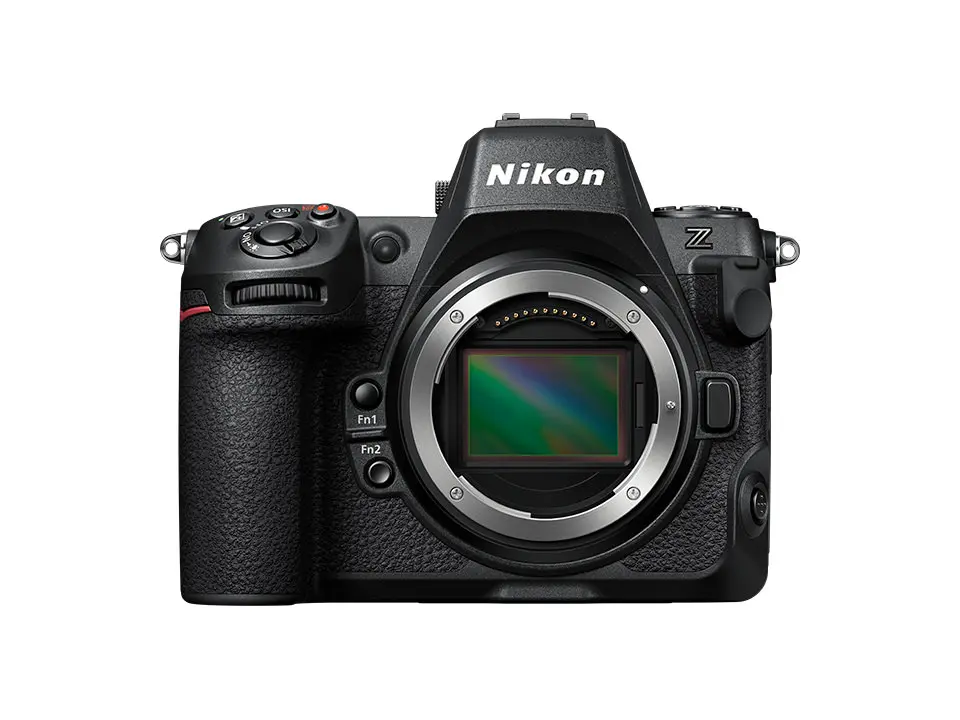
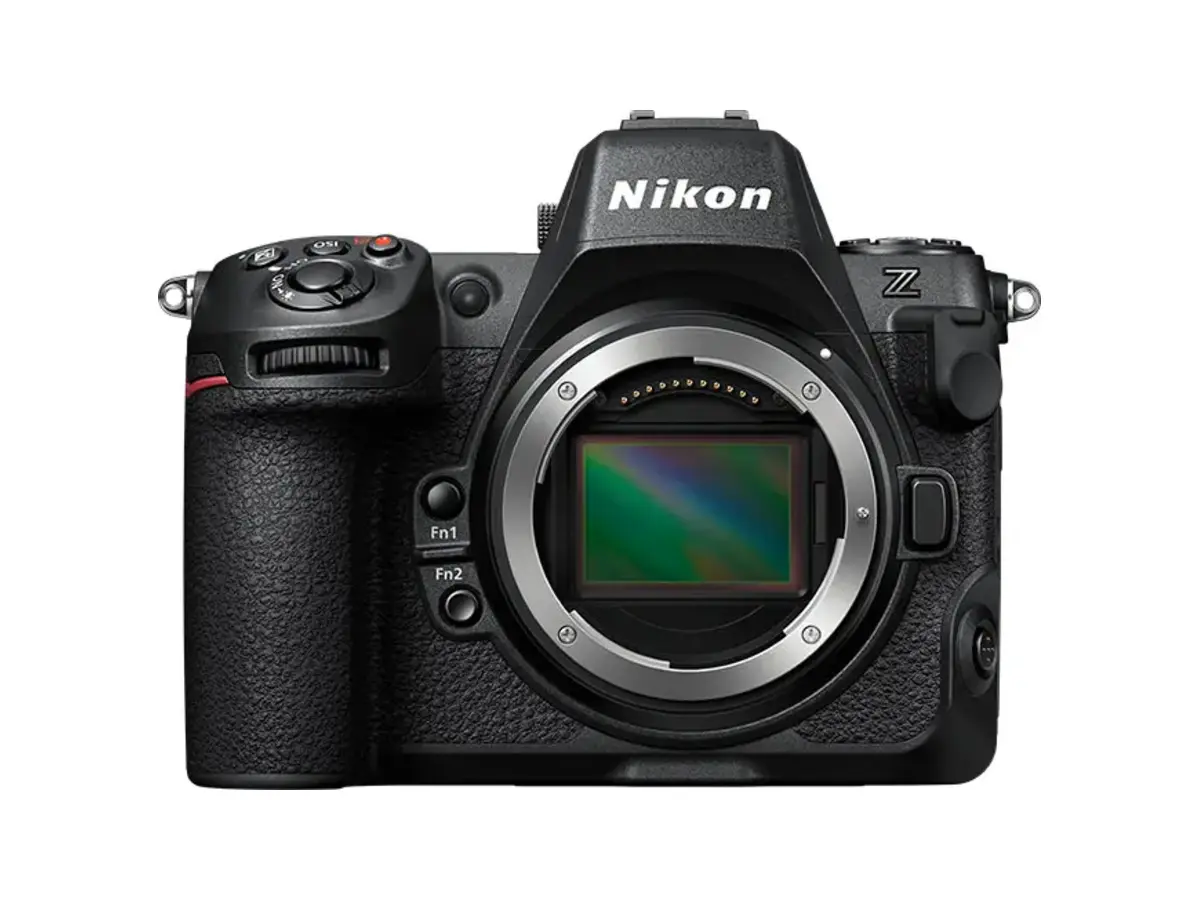
Normalize camera image scale and simplify monitor specs

Changed region(s): [[0.125, 0.1222, 0.875, 0.8861]]

diff --git a/data.js b/data.js
@@ -31,27 +31,27 @@ window.CAMERAS = [
 ];
 
 const CAMERA_DETAILS = {
-  'sony-a1-ii': {ibisLabel:'中央 8.5段 / 周辺 7.0段',price:'990,000円',display:'3.2" 4軸マルチアングル（バリチル）・タッチ・約209万ドット',image:'assets/sony-a1-ii.webp'},
-  'sony-a9-iii': {ibisLabel:'8.0段',price:'935,000円',display:'3.2" 4軸マルチアングル（バリチル）・タッチ・約209万ドット',image:'assets/sony-a9-iii.webp'},
-  'sony-a7r-vi': {ibisLabel:'中央 8.5段 / 周辺 7.0段',price:'740,300円',display:'3.2" 4軸マルチアングル（バリチル）・タッチ・約209万ドット',image:'assets/sony-a7r-vi.webp'},
-  'sony-a7-v': {ibisLabel:'中央 7.5段 / 周辺 6.5段',price:'416,900円〜',display:'3.2" 4軸マルチアングル（バリチル）・タッチ・約209万ドット',image:'assets/sony-a7-v.webp'},
-  'sony-a7-iv': {ibisLabel:'5.5段',price:'361,900円〜',display:'3.0" バリアングル・タッチ・約104万ドット',image:'assets/sony-a7-iv.webp'},
-  'sony-a7cr': {ibisLabel:'7.0段',price:'449,900円〜',display:'3.0" バリアングル・タッチ・約104万ドット',image:'assets/sony-a7cr.webp'},
-  'sony-a7c-ii': {ibisLabel:'7.0段',price:'306,900円〜',display:'3.0" バリアングル・タッチ・約104万ドット',image:'assets/sony-a7c-ii.webp'},
-  'sony-a6700': {ibisLabel:'5.0段',price:'229,900円〜',display:'3.0" バリアングル・タッチ・約104万ドット',image:'assets/sony-a6700.webp'},
-  'sony-fx2': {ibisLabel:'中央 5.5段 / 周辺 5.0段',price:'416,900円',display:'3.0" バリアングル・タッチ・約104万ドット',image:'assets/sony-fx2.webp'},
-  'sony-fx5': {ibisLabel:'5軸（段数非公表）',price:'812,900円',display:'3.5" 4軸マルチアングル（バリチル）・タッチ・約276万ドット',image:'assets/sony-fx5.webp'},
-  'sony-fx3': {ibisLabel:'5.5段',price:'581,900円',display:'3.0" バリアングル・タッチ・約236万ドット',image:'assets/sony-fx3.webp'},
-  'sony-fx30': {ibisLabel:'5軸 5.5段',price:'297,000円〜',display:'3.0" バリアングル・タッチ・約236万ドット',image:'assets/sony-fx30.webp'},
-  'nikon-z9': {ibisLabel:'最大 6.0段',price:'オープン価格',display:'3.2" 縦横4軸チルト・タッチ・約210万ドット',image:'assets/nikon-z9.webp'},
-  'nikon-z8': {ibisLabel:'最大 6.0段',price:'オープン価格',display:'3.2" 縦横4軸チルト・タッチ・約210万ドット',image:'assets/nikon-z8.webp'},
-  'nikon-z6-iii': {ibisLabel:'8.0段',price:'オープン価格',display:'3.2" バリアングル・タッチ・約210万ドット',image:'assets/nikon-z6-iii.webp'},
-  'nikon-z5-ii': {ibisLabel:'中央 7.5段 / 周辺 6.0段',price:'オープン価格',display:'3.2" バリアングル・タッチ・約210万ドット',image:'assets/nikon-z5-ii.webp'},
-  'nikon-zr': {ibisLabel:'中央 7.5段 / 周辺 6.0段',price:'オープン価格',display:'4.0" バリアングル・タッチ・約307万ドット',image:'assets/nikon-zr.webp'},
-  'fuji-gfx100s-ii': {ibisLabel:'8.0段',price:'オープン価格',display:'3.2" 3方向チルト・タッチ・約236万ドット',image:'assets/fuji-gfx100s-ii.webp'},
-  'sigma-bf': {ibisLabel:'なし（動画EISのみ）',price:'385,000円',display:'3.15" 固定式・タッチ・約210万ドット',image:'assets/sigma-bf-silver.webp'},
-  'sigma-fpl': {ibisLabel:'なし（動画電子式のみ）',price:'生産完了（オープン価格）',display:'3.15" 固定式・タッチ・約210万ドット',image:'assets/sigma-fpl.webp'},
-  'sigma-fp': {ibisLabel:'なし（動画電子式のみ）',price:'生産完了（オープン価格）',display:'3.15" 固定式・タッチ・約210万ドット',image:'assets/sigma-fp.webp'}
+  'sony-a1-ii': {ibisLabel:'中央 8.5段 / 周辺 7.0段',price:'990,000円',display:'3.2" 4軸マルチアングル（バリチル）',image:'assets/sony-a1-ii.webp'},
+  'sony-a9-iii': {ibisLabel:'8.0段',price:'935,000円',display:'3.2" 4軸マルチアングル（バリチル）',image:'assets/sony-a9-iii.webp'},
+  'sony-a7r-vi': {ibisLabel:'中央 8.5段 / 周辺 7.0段',price:'740,300円',display:'3.2" 4軸マルチアングル（バリチル）',image:'assets/sony-a7r-vi.webp'},
+  'sony-a7-v': {ibisLabel:'中央 7.5段 / 周辺 6.5段',price:'416,900円〜',display:'3.2" 4軸マルチアングル（バリチル）',image:'assets/sony-a7-v.webp'},
+  'sony-a7-iv': {ibisLabel:'5.5段',price:'361,900円〜',display:'3.0" バリアングル',image:'assets/sony-a7-iv.webp'},
+  'sony-a7cr': {ibisLabel:'7.0段',price:'449,900円〜',display:'3.0" バリアングル',image:'assets/sony-a7cr.webp'},
+  'sony-a7c-ii': {ibisLabel:'7.0段',price:'306,900円〜',display:'3.0" バリアングル',image:'assets/sony-a7c-ii.webp'},
+  'sony-a6700': {ibisLabel:'5.0段',price:'229,900円〜',display:'3.0" バリアングル',image:'assets/sony-a6700.webp'},
+  'sony-fx2': {ibisLabel:'中央 5.5段 / 周辺 5.0段',price:'416,900円',display:'3.0" バリアングル',image:'assets/sony-fx2.webp'},
+  'sony-fx5': {ibisLabel:'5軸（段数非公表）',price:'812,900円',display:'3.5" 4軸マルチアングル（バリチル）',image:'assets/sony-fx5.webp'},
+  'sony-fx3': {ibisLabel:'5.5段',price:'581,900円',display:'3.0" バリアングル',image:'assets/sony-fx3.webp'},
+  'sony-fx30': {ibisLabel:'5軸 5.5段',price:'297,000円〜',display:'3.0" バリアングル',image:'assets/sony-fx30.webp'},
+  'nikon-z9': {ibisLabel:'最大 6.0段',price:'オープン価格',display:'3.2" 縦横4軸チルト',image:'assets/nikon-z9.webp'},
+  'nikon-z8': {ibisLabel:'最大 6.0段',price:'オープン価格',display:'3.2" 縦横4軸チルト',image:'assets/nikon-z8.webp'},
+  'nikon-z6-iii': {ibisLabel:'8.0段',price:'オープン価格',display:'3.2" バリアングル',image:'assets/nikon-z6-iii.webp'},
+  'nikon-z5-ii': {ibisLabel:'中央 7.5段 / 周辺 6.0段',price:'オープン価格',display:'3.2" バリアングル',image:'assets/nikon-z5-ii.webp'},
+  'nikon-zr': {ibisLabel:'中央 7.5段 / 周辺 6.0段',price:'オープン価格',display:'4.0" バリアングル',image:'assets/nikon-zr.webp'},
+  'fuji-gfx100s-ii': {ibisLabel:'8.0段',price:'オープン価格',display:'3.2" 3方向チルト',image:'assets/fuji-gfx100s-ii.webp'},
+  'sigma-bf': {ibisLabel:'なし（動画EISのみ）',price:'385,000円',display:'3.15" 固定式',image:'assets/sigma-bf-silver.webp'},
+  'sigma-fpl': {ibisLabel:'なし（動画電子式のみ）',price:'生産完了（オープン価格）',display:'3.15" 固定式',image:'assets/sigma-fpl.webp'},
+  'sigma-fp': {ibisLabel:'なし（動画電子式のみ）',price:'生産完了（オープン価格）',display:'3.15" 固定式',image:'assets/sigma-fp.webp'}
 };
 
 window.CAMERAS.forEach(camera => Object.assign(camera, CAMERA_DETAILS[camera.id] || {

diff --git a/index.html b/index.html
@@ -6,7 +6,7 @@
   <meta name="theme-color" content="#0a0a0a">
   <meta name="description" content="主要メーカーのミラーレスカメラを共通の項目で探せる個人用スペックシート。">
   <title>Camera</title>
-  <link rel="stylesheet" href="styles.css?v=20260801-11">
+  <link rel="stylesheet" href="styles.css?v=20260801-12">
 </head>
 <body>
   <main>
@@ -63,7 +63,7 @@
     <div id="detail-content"></div>
   </dialog>
 
-  <script src="data.js?v=20260801-11"></script>
-  <script src="app.js?v=20260801-11"></script>
+  <script src="data.js?v=20260801-12"></script>
+  <script src="app.js?v=20260801-12"></script>
 </body>
 </html>
